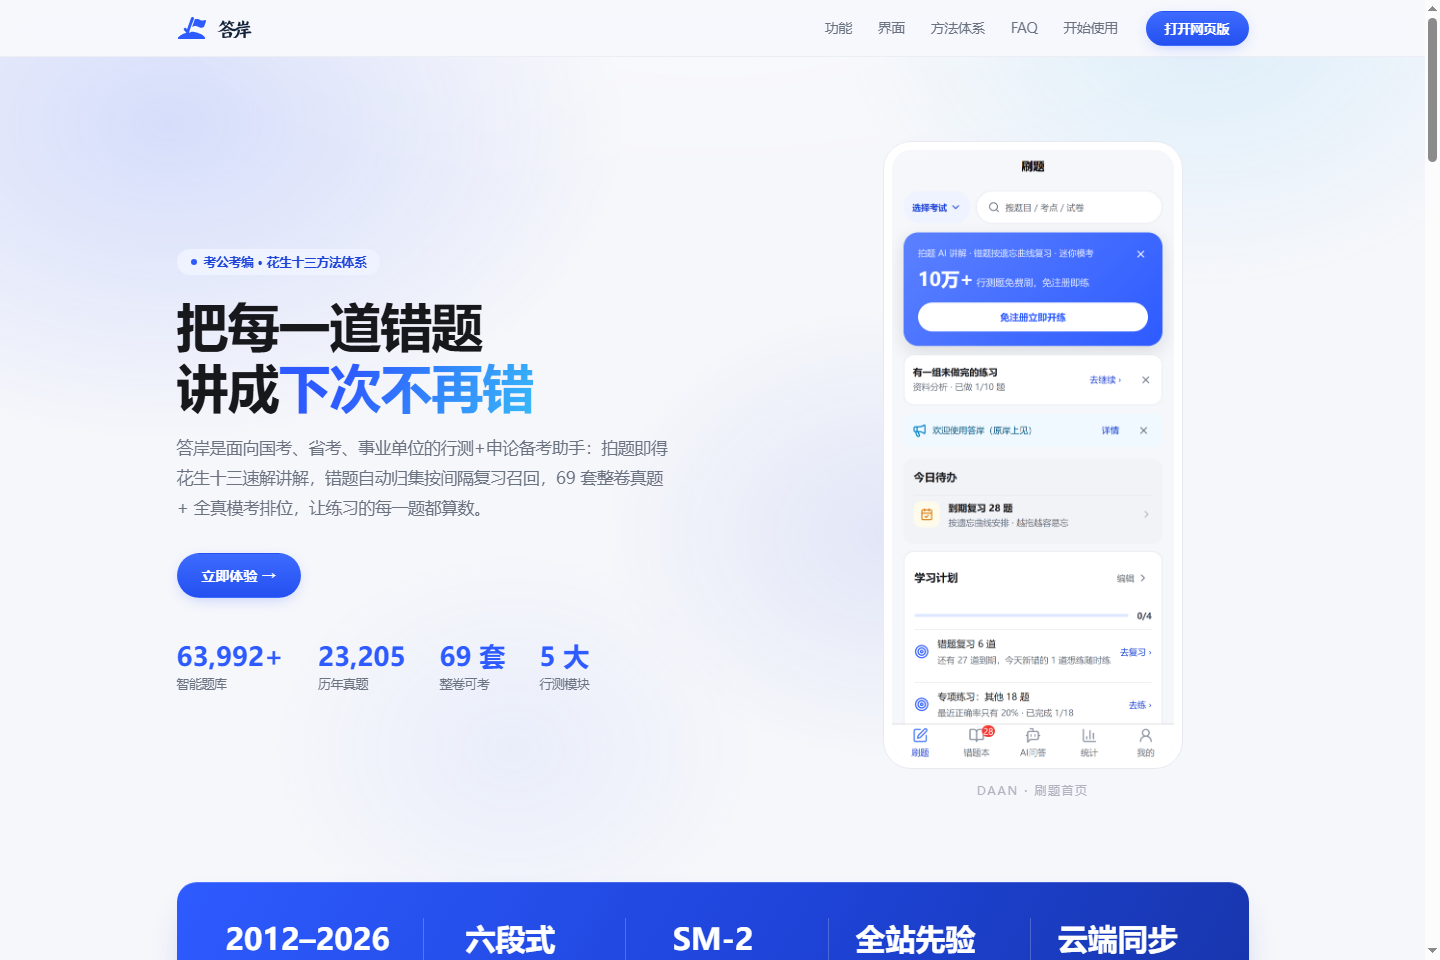
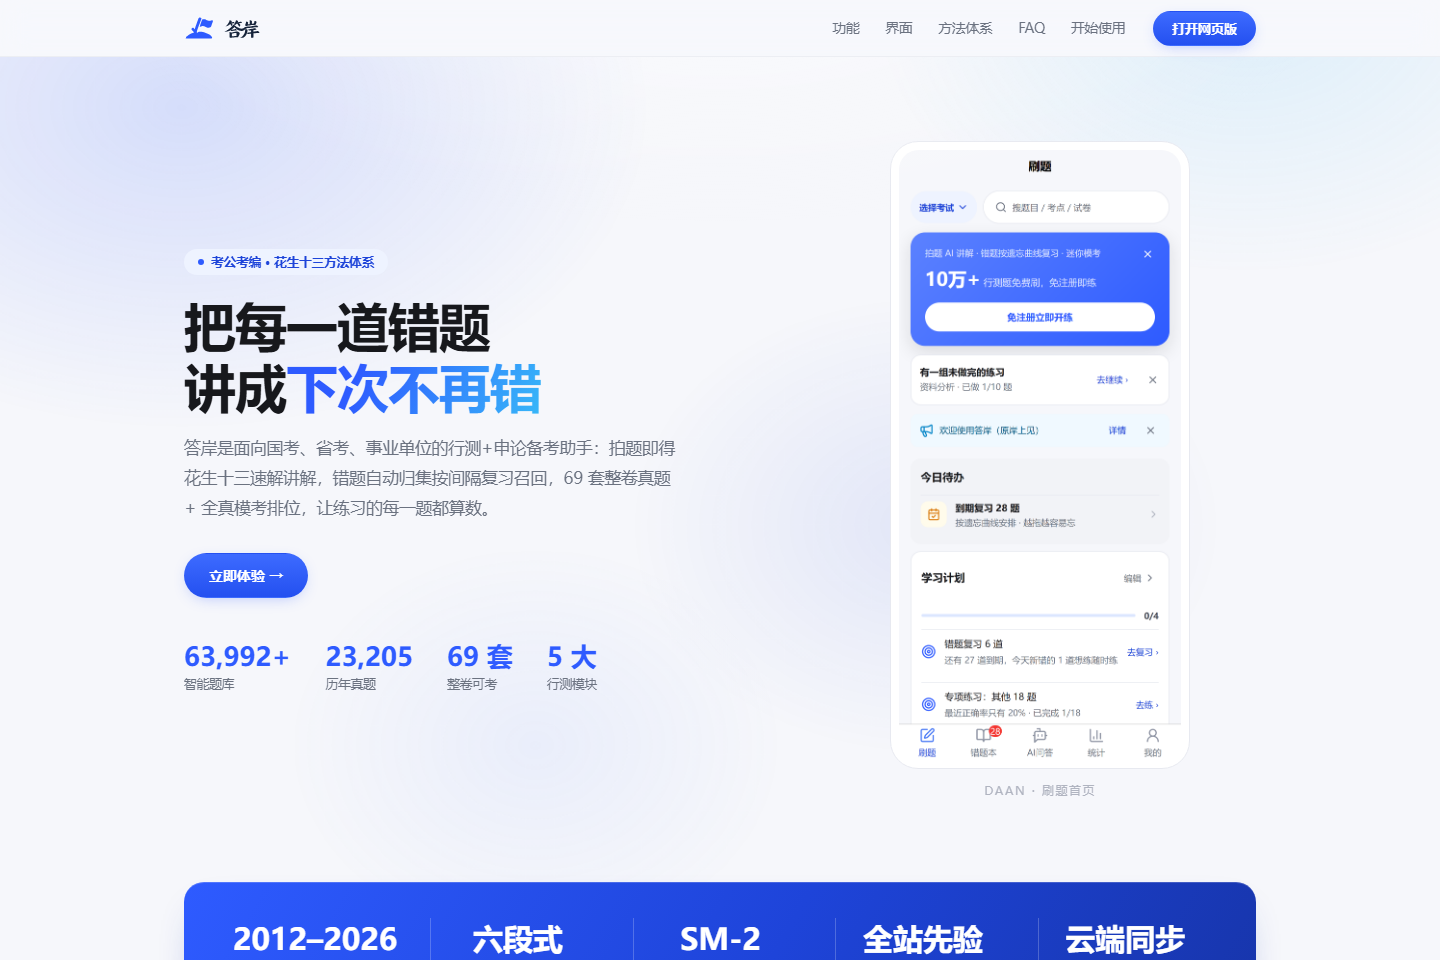
docs+landing: contact info, GitHub badge, new hero screenshot without scrollbar (#855)

diff --git a/landing/index.html b/landing/index.html
@@ -487,7 +487,8 @@ footer{border-top:1px solid var(--line);padding:44px 0 30px;color:var(--ink-3);f
 <footer>
   <div class="wrap foot-grid">
     <div class="fcol"><b>答岸</b><span>考公行测错题助手</span><span>花生十三方法体系</span></div>
-    <div class="fcol"><b>产品</b><a href="/app/">网页版</a></div>
+    <div class="fcol"><b>产品</b><a href="/app/">网页版</a><a href="https://github.com/wookat/daan" rel="noopener">GitHub 开源</a></div>
+    <div class="fcol"><b>联系</b><a href="mailto:wookat@qq.com">wookat@qq.com</a><span>微信 hveary</span></div>
     <div class="fcol"><b>说明</b><span>题库数据含公开真题整理</span><span>部分解析由 AI 生成</span></div>
   </div>
   <div class="wrap foot-copy">© 2026 答岸 版权所有 · 运营团队：Zalize</div>

diff --git a/README.md b/README.md
@@ -17,6 +17,8 @@
 
 <p align="center">
   <a href="LICENSE"><img src="https://img.shields.io/badge/License-MIT-yellow.svg" alt="License: MIT"></a>
+  <img src="https://img.shields.io/github/stars/wookat/daan?style=social" alt="GitHub stars">
+  <img src="https://img.shields.io/github/issues/wookat/daan" alt="GitHub issues">
   <img src="https://img.shields.io/badge/backend-FastAPI%20%2B%20SQLite-009688.svg" alt="backend">
   <img src="https://img.shields.io/badge/frontend-uni--app%20%2F%20Vue3-42b883.svg" alt="frontend">
   <img src="https://img.shields.io/badge/tests-vitest%201583%20%2B%20pytest-brightgreen.svg" alt="tests">
@@ -127,6 +129,12 @@ eval/              LLM 讲解质量评测集
 欢迎 Issue、PR 与产品反馈。开始前请阅读
 [贡献指南](CONTRIBUTING.md) 与 [行为准则](CODE_OF_CONDUCT.md)。
 产品内测反馈入口：https://kaogong.zalize.com/#feedback
+
+## 📮 联系
+
+- 邮箱：[wookat@qq.com](mailto:wookat@qq.com)
+- 微信：hveary
+- Issue / 讨论：直接在仓库开 Issue 或 Discussion
 
 ## 📄 许可证
 
